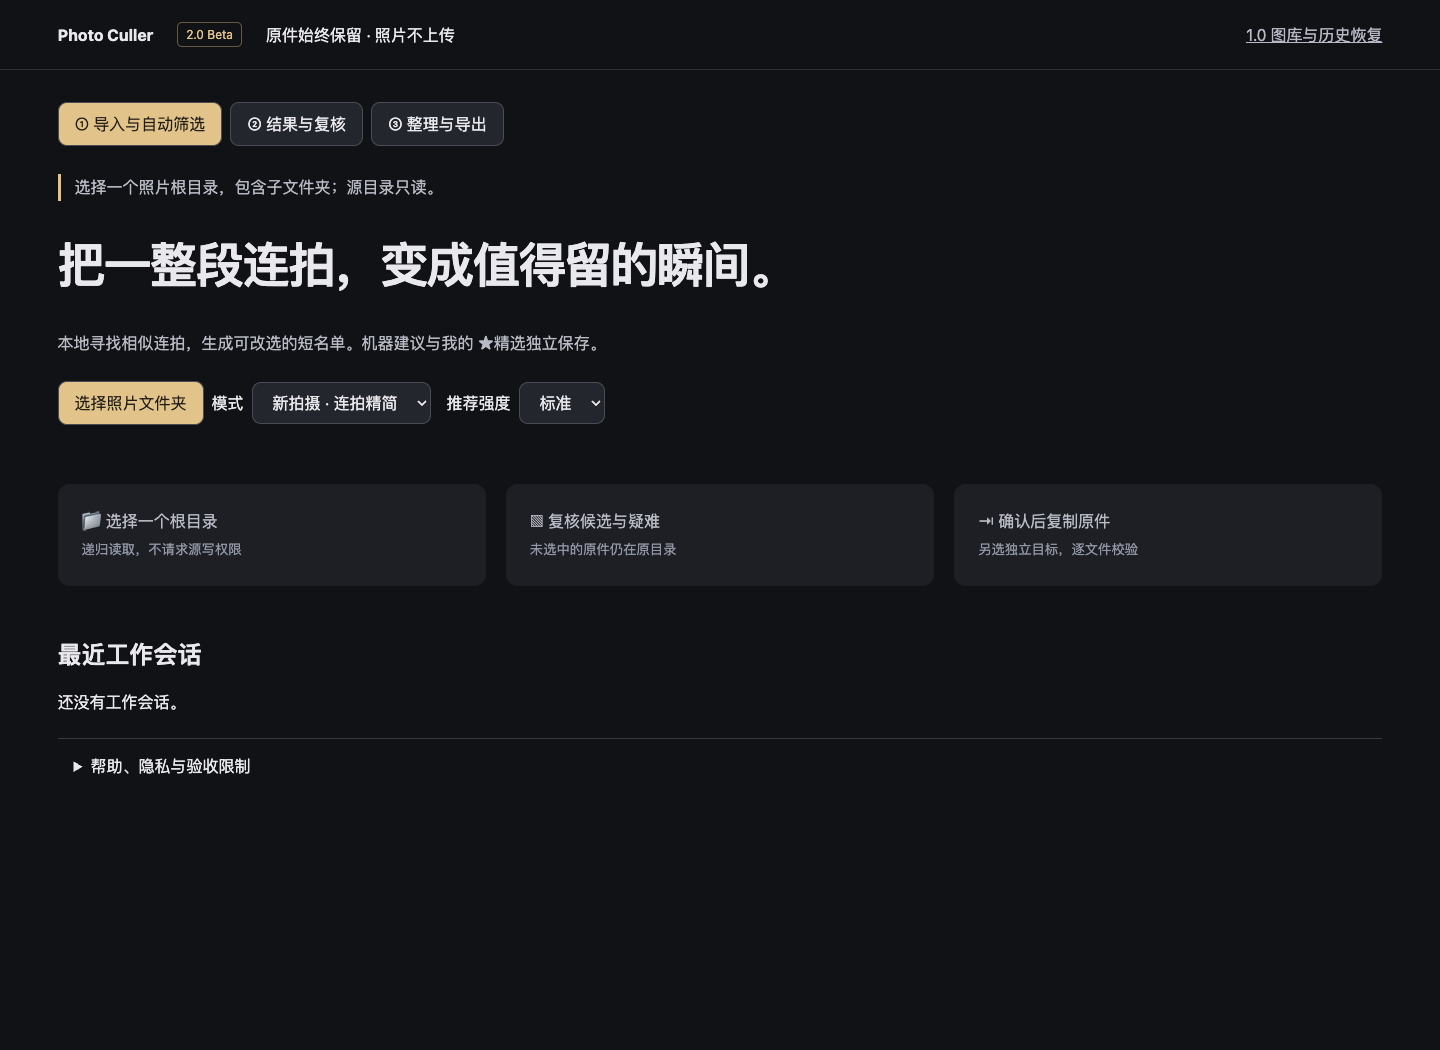
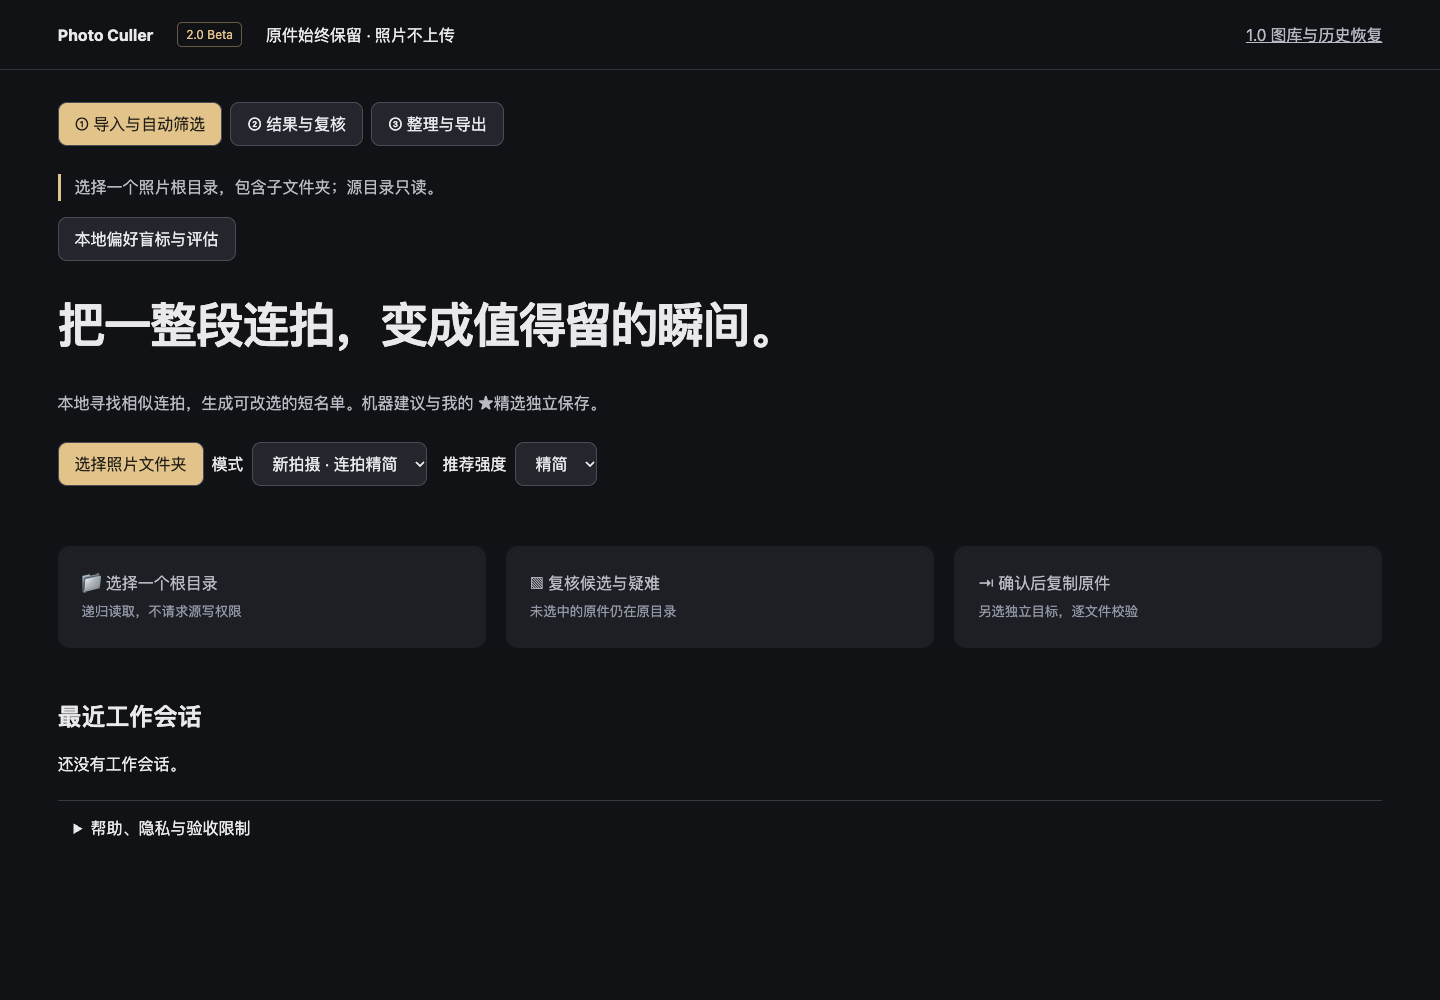
Verify modal keyboard help and correct document fullscreen behavior

diff --git a/web/modules/cull-benchmark-ui.js b/web/modules/cull-benchmark-ui.js
@@ -12,7 +12,8 @@ export function installBenchmark({ getState, save, message, download }) {
   document.querySelector("#global").after(button);
   const dialog = document.createElement("dialog");
   dialog.id = "benchmark";
-  dialog.innerHTML = `<form method="dialog"><button>保存进度并关闭</button></form><h2>本地偏好盲标</h2><p>不显示机器推荐。先选调参或独立验收集，再逐组标记；同一重要瞬间可填相同编号。标注不会修改照片、审核决定或导出计划。独立验收需另外一次拍摄的 500–1000 组。</p><label>样本用途 <select id="benchmark-split"><option value="held-out">独立验收集</option><option value="calibration">调参集</option></select></label><label>导入 AI 代理标签 JSON（仅本地）<input id="benchmark-import" type="file" accept="application/json,.json"></label><label>随机样本数<input id="benchmark-size" type="number" min="1" max="1000" value="500"></label><label><input id="benchmark-attest" type="checkbox">独立盲标：这批为未用于调参的拍摄，标注时不参考推荐</label><button id="benchmark-start">开始 / 重置本批盲标</button><p id="benchmark-position" role="status"></p><img id="benchmark-image" alt="当前盲标图片"><p id="benchmark-name"></p><p id="benchmark-reason"></p><label>重要瞬间编号（可选）<input id="benchmark-moment" placeholder="同一瞬间填写相同编号"></label><div><button id="benchmark-yes">必须保留</button><button id="benchmark-no">不必保留</button><button id="benchmark-unsure">暂不确定</button><button id="benchmark-back">上一组</button></div><button id="benchmark-download">下载标注与冻结评估 JSON</button><pre id="benchmark-result"></pre>`;
+  dialog.setAttribute("aria-labelledby", "benchmark-title");
+  dialog.innerHTML = `<form method="dialog"><button>保存进度并关闭</button></form><h2 id="benchmark-title">本地偏好盲标</h2><p>不显示机器推荐。先选调参或独立验收集，再逐组标记；同一重要瞬间可填相同编号。标注不会修改照片、审核决定或导出计划。独立验收需另外一次拍摄的 500–1000 组。</p><label>样本用途 <select id="benchmark-split"><option value="held-out">独立验收集</option><option value="calibration">调参集</option></select></label><label>导入 AI 代理标签 JSON（仅本地）<input id="benchmark-import" type="file" accept="application/json,.json"></label><label>随机样本数<input id="benchmark-size" type="number" min="1" max="1000" value="500"></label><label><input id="benchmark-attest" type="checkbox">独立盲标：这批为未用于调参的拍摄，标注时不参考推荐</label><button id="benchmark-start">开始 / 重置本批盲标</button><p id="benchmark-position" role="status"></p><img id="benchmark-image" alt="当前盲标图片"><p id="benchmark-name"></p><p id="benchmark-reason"></p><label>重要瞬间编号（可选）<input id="benchmark-moment" placeholder="同一瞬间填写相同编号"></label><div><button id="benchmark-yes">必须保留</button><button id="benchmark-no">不必保留</button><button id="benchmark-unsure">暂不确定</button><button id="benchmark-back">上一组</button></div><button id="benchmark-download">下载标注与冻结评估 JSON</button><pre id="benchmark-result"></pre>`;
   document.body.append(dialog);
   const $ = (id) => dialog.querySelector("#" + id);
   let preview = null;

diff --git a/web/auto.js b/web/auto.js
@@ -51,6 +51,7 @@ let target = null,
   accepted = null,
   view = "import";
 let visibleCount = 0;
+let viewerFullscreen = false;
 let decisionHistory = new ReviewDecisionHistory();
 const chosen = new Set(),
   urls = new Set(),
@@ -705,7 +706,12 @@ async function compare(list) {
     };
   }
 }
+document.addEventListener("fullscreenchange", () => {
+  if (!document.fullscreenElement) viewerFullscreen = false;
+});
 $("compare").addEventListener("close", () => {
+  if (viewerFullscreen && document.fullscreenElement)
+    void document.exitFullscreen();
   ++compareGeneration;
   zooms.length = 0;
   compared = [];
@@ -763,6 +769,11 @@ if (help) {
   keys.textContent =
     "快捷键：? 帮助；单图中 J/K 或方向键浏览，1 精选，2 保留，X 暂不导出，3 稍后复核，U 撤销，F 全屏，Esc 关闭。输入框中不触发快捷键。";
   help.append(keys);
+  const comparisonHelp = document.createElement("p");
+  comparisonHelp.id = "compare-shortcuts";
+  comparisonHelp.hidden = true;
+  comparisonHelp.textContent = keys.textContent;
+  $("compare").append(comparisonHelp);
 }
 document.addEventListener("keydown", (e) => {
   if (
@@ -772,10 +783,15 @@ document.addEventListener("keydown", (e) => {
     e.target.closest("input,select,textarea,[contenteditable=true]")
   )
     return;
+  if (document.getElementById("benchmark")?.open) return;
   if (e.key === "?") {
     e.preventDefault();
-    help.open = !help.open;
-    help.querySelector("summary").focus();
+    if ($("compare").open)
+      $("compare-shortcuts").hidden = !$("compare-shortcuts").hidden;
+    else {
+      help.open = !help.open;
+      help.querySelector("summary").focus();
+    }
     return;
   }
   if (!$("compare").open || busy) return;
@@ -791,14 +807,18 @@ document.addEventListener("keydown", (e) => {
   }
   if (key === "f") {
     e.preventDefault();
-    if (document.fullscreenElement) void document.exitFullscreen();
-    else
-      void $("compare")
-        .requestFullscreen?.()
-        .catch(() => {});
+    if (viewerFullscreen && document.fullscreenElement)
+      void document.exitFullscreen();
+    else if (document.documentElement.requestFullscreen)
+      void document.documentElement.requestFullscreen().then(
+        () => {
+          viewerFullscreen = true;
+        },
+        () => message("浏览器未允许全屏，仍可继续比较与缩放。"),
+      );
     return;
   }
-  if (g && ["1", "2", "x", "3"].includes(key)) {
+  if (compared.length === 1 && g && ["1", "2", "x", "3"].includes(key)) {
     e.preventDefault();
     void decide(
       g,

diff --git a/web/auto.css b/web/auto.css
@@ -261,10 +261,12 @@ summary:focus-visible {
   outline: 2px solid #e2c48b;
   outline-offset: 3px;
 }
-#compare:fullscreen {
+html:fullscreen #compare {
   width: 100vw;
   max-width: none;
   height: 100vh;
+  max-height: none;
+  margin: 0;
 }
 @media (prefers-reduced-motion: reduce) {
   *,

diff --git a/README.md b/README.md
@@ -26,13 +26,13 @@ npm run dev
 
 Vite 8.3.6 只做静态打包，`web/ → dist/`；GitHub Pages base 固定 `/photo-culler-static/`。`test:dist` 包含 build 和真实子路径预览检查。旧测试仅更换到保留的 `legacy.html` 路由，并按冻结约束更新“只读权限”和“多会话不丢旧审核”两个旧合同。
 
-PR check 和 main 发布都必须通过 ci/check/test/build/dist 冒烟。发布只允许 main；本功能分支不会部署生产。详见 [验收记录与未完成矩阵](docs/photo-culler-2-validation.md)、[架构决定](docs/adr/0002-culler-2-sessions-and-copy.md)、[第三方许可](THIRD_PARTY_NOTICES.md)。
+PR check 和 main 发布都必须通过 ci/check/test/build/dist 冒烟。发布只允许 main；功能分支本身不部署生产。详见 [验收记录与未完成矩阵](docs/photo-culler-2-validation.md)、[架构决定](docs/adr/0002-culler-2-sessions-and-copy.md)、[第三方许可](THIRD_PARTY_NOTICES.md)。
 
 ## 限制
 
-当前是规则版 Beta 候选代码，不是 Stable。人像模型因遥测门槛未通过而不安装；embedding 无经过验证的小模型/收益数据，延期。连拍阈值尚无用户 S9 盲测，95% 召回与 70% 减少看片量均未验证。编辑版/裁剪、全景、艺术虚焦、表情与故事性不能可靠自动判定，请使用宽松推荐或全量复核。
+当前是规则版 Beta，不是 Stable。人像模型因遥测门槛未通过而不安装；embedding 无经过验证的小模型/收益数据，延期。连拍阈值尚无用户 S9 盲测，95% 召回与 70% 减少看片量均未验证。编辑版/裁剪、全景、艺术虚焦、表情与故事性不能可靠自动判定，请使用宽松推荐或全量复核。
 
-Mac Chrome 的自动测试使用隔离 OPFS 合成副本，不代表真实外部相机目录或 Windows Edge 验收。新流程不提供文件移动；旧页面仅允许已验证原生 OPFS 移动/恢复。外部目录历史批次仍可发现，无法安全恢复时明确报错并保持原样。权限拒绝、空间不足或冲突会中止，不覆盖不同内容。未完成输出保留已写字节和 journal；同页可下载记录，重新确认创建新输出目录。重开同一会话后可“继续上次中断导出”，重新授权输出并逐文件校验；已有不同内容或不完整文件冲突时停止，请选择新输出目录。
+Mac Chrome 包含隔离 OPFS 回归及一次真实系统目录选择器副本测试；Windows Edge 加入 CI，但尚未验证 Windows 原生目录、物理断电或外接设备拔出。详见 [原生复制记录](docs/research/culler-2-native-copy-acceptance.md)。新流程不提供文件移动；旧页面仅允许已验证原生 OPFS 移动/恢复。外部目录历史批次仍可发现，无法安全恢复时明确报错并保持原样。权限拒绝、空间不足或冲突会中止，不覆盖不同内容。未完成输出保留已写字节和 journal；同页可下载记录，重新确认创建新输出目录。重开同一会话后可“继续上次中断导出”，重新授权输出并逐文件校验；已有不同内容或不完整文件冲突时停止，请选择新输出目录。
 
 浏览器存储清理会失去会话，源照片与磁盘 journal 不受影响。项目尚无仓库级 LICENSE，不能替所有者新增授权；依赖许可证已保留。
 

diff --git a/.scratch/complete-notion-plan/spec.md b/.scratch/complete-notion-plan/spec.md
@@ -6,21 +6,30 @@ User explicitly requires all plan work, tests and deployment, not just a running
 Beta. Existing main de8ca04 is deployed; green CI is not full acceptance.
 
 ## Coverage and remaining work
-- P1 acceptance snapshot, undo, persistence, invalidation: implementation under test.
-- P1 compact burst default preserving saved choices: implementation under test.
-- P1 filtered paging: pure logic fixed; real multi-page regression needed.
-- Native UI shortcuts/help, 44px controls, <1100px survey fallback, reduced motion:
-  audit and repair new UI; original v1 regressions remain.
-- Distinguish exact/near edit/burst/unique/unknown; conservative special-sequence
-  protection; cover resized/recompressed/cropped, missing subsecond and time vs mtime.
-- Export full review CSV, plan invalidation during confirmation, interrupted resume,
-  source/target overlap, permissions and space errors; preserve original bytes.
-- Native external disk copy with disposable files (not originals), Windows Edge
-  platform testing, actual human quality labels: separate from OPFS evidence.
-- Models: explicitly deferred under section 0 gating, not silently marked complete.
-- Final full CI, real HTTPS verification, authorized deployment and Notion sync.
+- P1 snapshots/undo/persistence/invalidation: implemented; dist acceptance and changed-source cases pass.
+- P1 compact burst defaults preserve saved choices: implemented and tested.
+- P1 filtered paging: 90-of-120 favorite fixture wraps60→30→60, passed.
+- UI shortcuts/help/fullscreen/44px/focus/<1100 survey/reduced motion: implemented;
+  current dist interaction tests pass. Fullscreen uses document root, not dialog.
+- Similarity types/version candidates/resolution/special-sequence protection:
+  implemented conservative rules, actual resize/recompression/crop fixtures pass.
+  Semantic identity/artistic intent without reliable evidence remains unknown.
+- Full review CSV, confirmation/cancellation, resume, overlap/permissions/conflicts:
+  tested; 35 native Mac output files SHA-verified on disposable copies.
+- Windows Edge CI added; latest prior commit green, final UI commit CI pending.
+- AI proxy labeling complete1141/1233,92 uncertain; 75.26% automatic moment recall
+  does not pass95%; human preference/effort acceptance remains open.
+- Models explicitly deferred under section0 gating, not marked as implemented.
+- Final CI, authorized deployment, HTTPS verification and Notion sync pending.
 
 ## Comments
 Earlier reports overstated engineering completion. Each criterion now needs a
 linked test/result or an explicit unresolved gate. Human preference labels have
 been requested; no metrics will be invented if labels are unavailable.
+
+2026-11-10: Explicit user authorization used AI vision for most label preparation.
+Both proxy runs verified all2466 original files unchanged. Local label JSON and
+per-file reports are ignored; only aggregate evidence committed. Real native Mac
+picker copy verified60 originals unchanged and35 complete output members. Do not
+narrow full acceptance to tests green; independent human and missing native
+Windows/removable-device gates remain open after engineering deployment.

diff --git a/CHANGELOG.md b/CHANGELOG.md
@@ -1,5 +1,15 @@
 # Changes
 
+## 2.0 Beta update — 2026-11-10 JST
+
+- Save and use accepted output snapshots; undo and candidate/source/settings changes require new acceptance.
+- Default new bursts to compact; fix filtered paging and session reopening after source changes.
+- Add local SHA-bound AI draft labels, uncertainty-first confirmation and frozen provenance-aware evaluation.
+- Distinguish exact, version candidates, bursts, unique and unknown; protect edits/panoramic sources and reuse original dimensions for ranking.
+- Export every member in review CSV; improve keyboard help, undo, fullscreen, focus targets and narrow-screen comparison.
+- Verify native Mac directory picker copies on disposable photo pairs; add Windows Edge CI and preserve deterministic legacy progress assertions.
+- AI proxy review is not human acceptance: automatic moment recall 75.26%, 85 suggested-keep frames folded; keep Beta and full-review fallback.
+
 ## 2.0 Beta candidate — 2026-11-09 JST
 
 - Default three-workspace automatic shortlist UI; preserved v1 gallery/recovery route.
